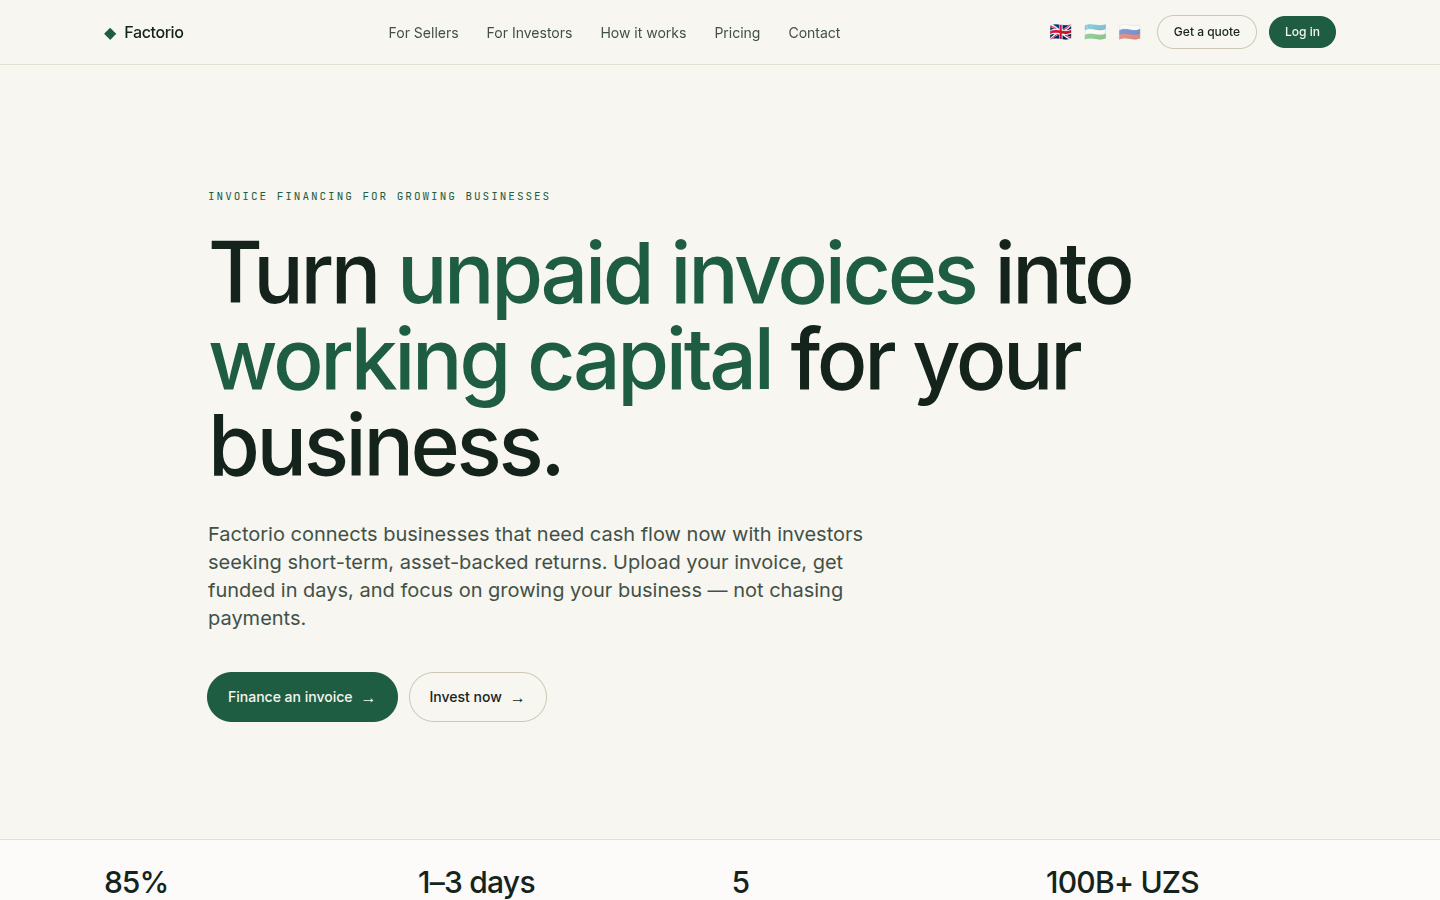
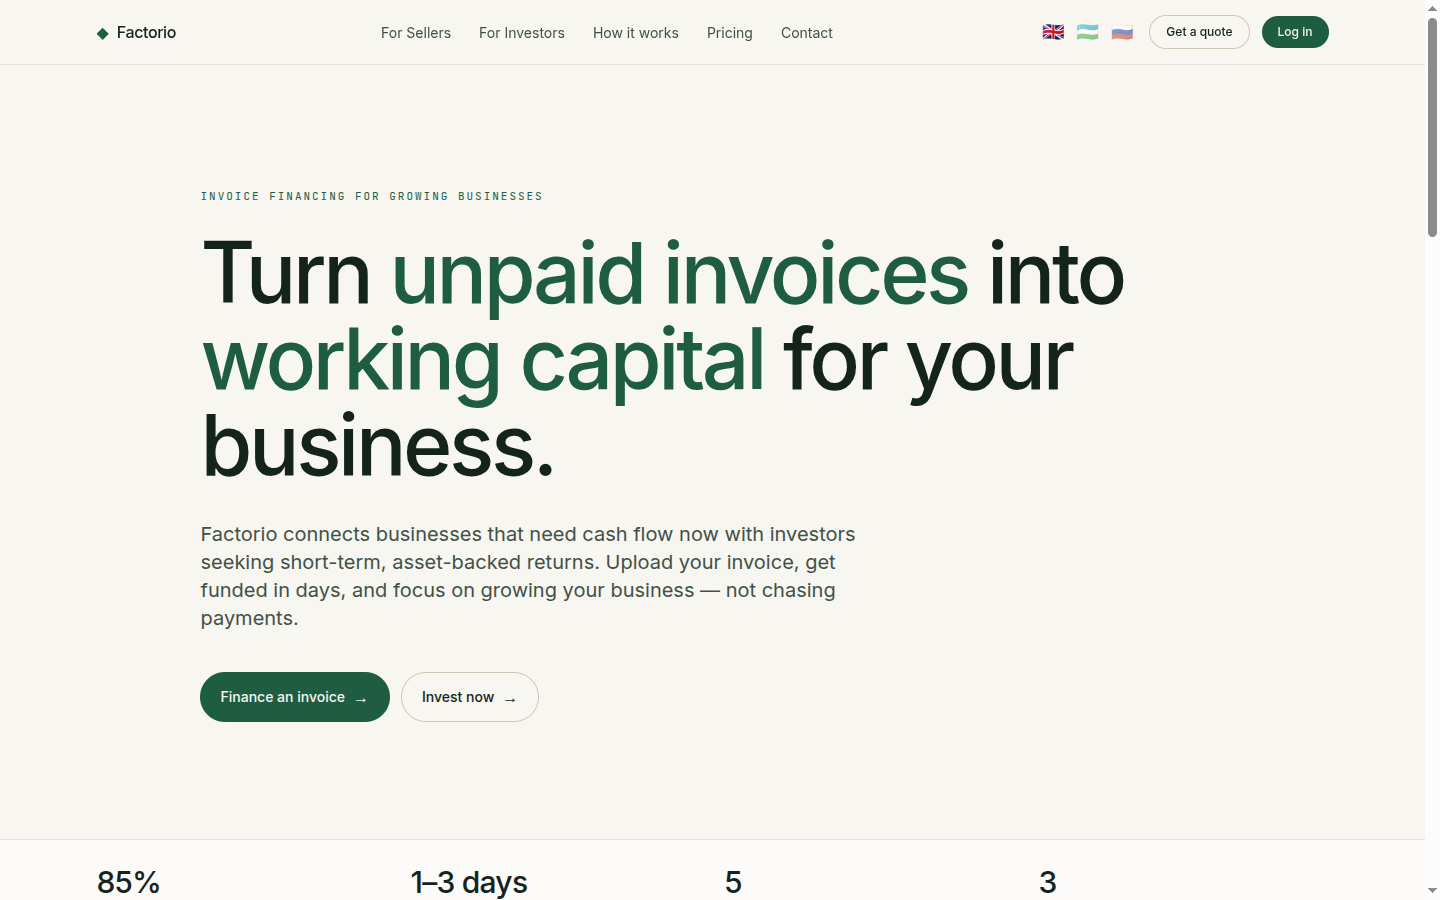
copy: remove unfounded "funded to date" track-record claims
Factorio is a pre-launch platform that *enables* invoice funding (multilingual,
localizable) — it has no funding history yet. Reframe the hero stat strip from
fabricated volume to platform capability:

- "100B+ UZS · invoices funded to date" → "3 · languages — fully localizable"
- "5 · sectors actively funded" → "5 · industry sectors supported"
- product-tour + user-guide notes updated to match
- re-captured EN/RU landing screenshots and rebuilt the user guides

diff --git a/utils/i18n.py b/utils/i18n.py
@@ -49,12 +49,12 @@ TRANSLATIONS: dict[str, dict[str, str]] = {
     "stat_days":            {"en": "from submission to funding",
                              "uz": "topshirishdan moliyalashtirishgacha",
                              "ru": "от подачи до финансирования"},
-    "stat_sectors":         {"en": "sectors actively funded",
-                             "uz": "faol moliyalashtirilayotgan sektorlar",
-                             "ru": "секторов активно финансируются"},
-    "stat_total":           {"en": "invoices funded to date",
-                             "uz": "bugungi kunga qadar moliyalashtirilgan",
-                             "ru": "профинансировано счетов на сегодня"},
+    "stat_sectors":         {"en": "industry sectors supported",
+                             "uz": "qoʻllab-quvvatlanadigan sohalar",
+                             "ru": "поддерживаемых отраслей"},
+    "stat_total":           {"en": "languages — fully localizable",
+                             "uz": "til — toʻliq moslashtiriladigan",
+                             "ru": "языка — полностью локализуемо"},
 
     # ── How it works ────────────────────────────────────────────────
     "how_eyebrow":          {"en": "How it works",       "uz": "Qanday ishlaydi",      "ru": "Как это работает"},

diff --git a/landing/components.py b/landing/components.py
@@ -251,7 +251,7 @@ def Hero(lang: str = DEFAULT_LANG):
                 _StatCell("1–3 " + ("kun" if lang == "uz" else "дня" if lang == "ru" else "days"),
                           t("stat_days", lang)),
                 _StatCell("5", t("stat_sectors", lang)),
-                _StatCell("100B+ UZS", t("stat_total", lang)),
+                _StatCell("3", t("stat_total", lang)),
                 cls="max-w-7xl mx-auto px-5 md:px-6 py-5 md:py-6 grid grid-cols-2 md:grid-cols-4 gap-6",
             ),
             cls="border-y border-line bg-bg-elevated/60",

diff --git a/scripts/make_pdf.py b/scripts/make_pdf.py
@@ -225,7 +225,7 @@ def build() -> None:
         title="Invoice financing for growing businesses",
         subtitle="Turn unpaid invoices into working capital in days, not months.",
         bullets=[
-            "Hero with key stats: 85% advance rate, 1–3 day turnaround, 5 sectors, 100B+ UZS funded.",
+            "Hero with key stats: 85% advance rate, 1–3 day turnaround, 5 sectors supported, 3 languages.",
             "Four-step process: Submit → Verify → Fund → Settle.",
             "Sector-specific cards for manufacturing, wholesale, construction, logistics, services.",
             "Trilingual: English, O’zbekcha, Russian — switch with one click in the navbar.",

diff --git a/docs/user-guide.md b/docs/user-guide.md
@@ -16,7 +16,7 @@ The homepage introduces FactorFinance with key stats and a clear value propositi
 
 **Key elements:**
 - Hero section: "Turn unpaid invoices into working capital"
-- Stats strip: 85% advance rate, 1–3 day turnaround, 5 sectors, 100B+ UZS funded
+- Stats strip: 85% advance rate, 1–3 day turnaround, 5 sectors supported, 3 languages (fully localizable)
 - Four-step process: Submit → Verify → Fund → Settle
 - Sector cards: manufacturing, wholesale, construction, logistics, services
 - Benefits strip with investor return targets (8–12% p.a.)